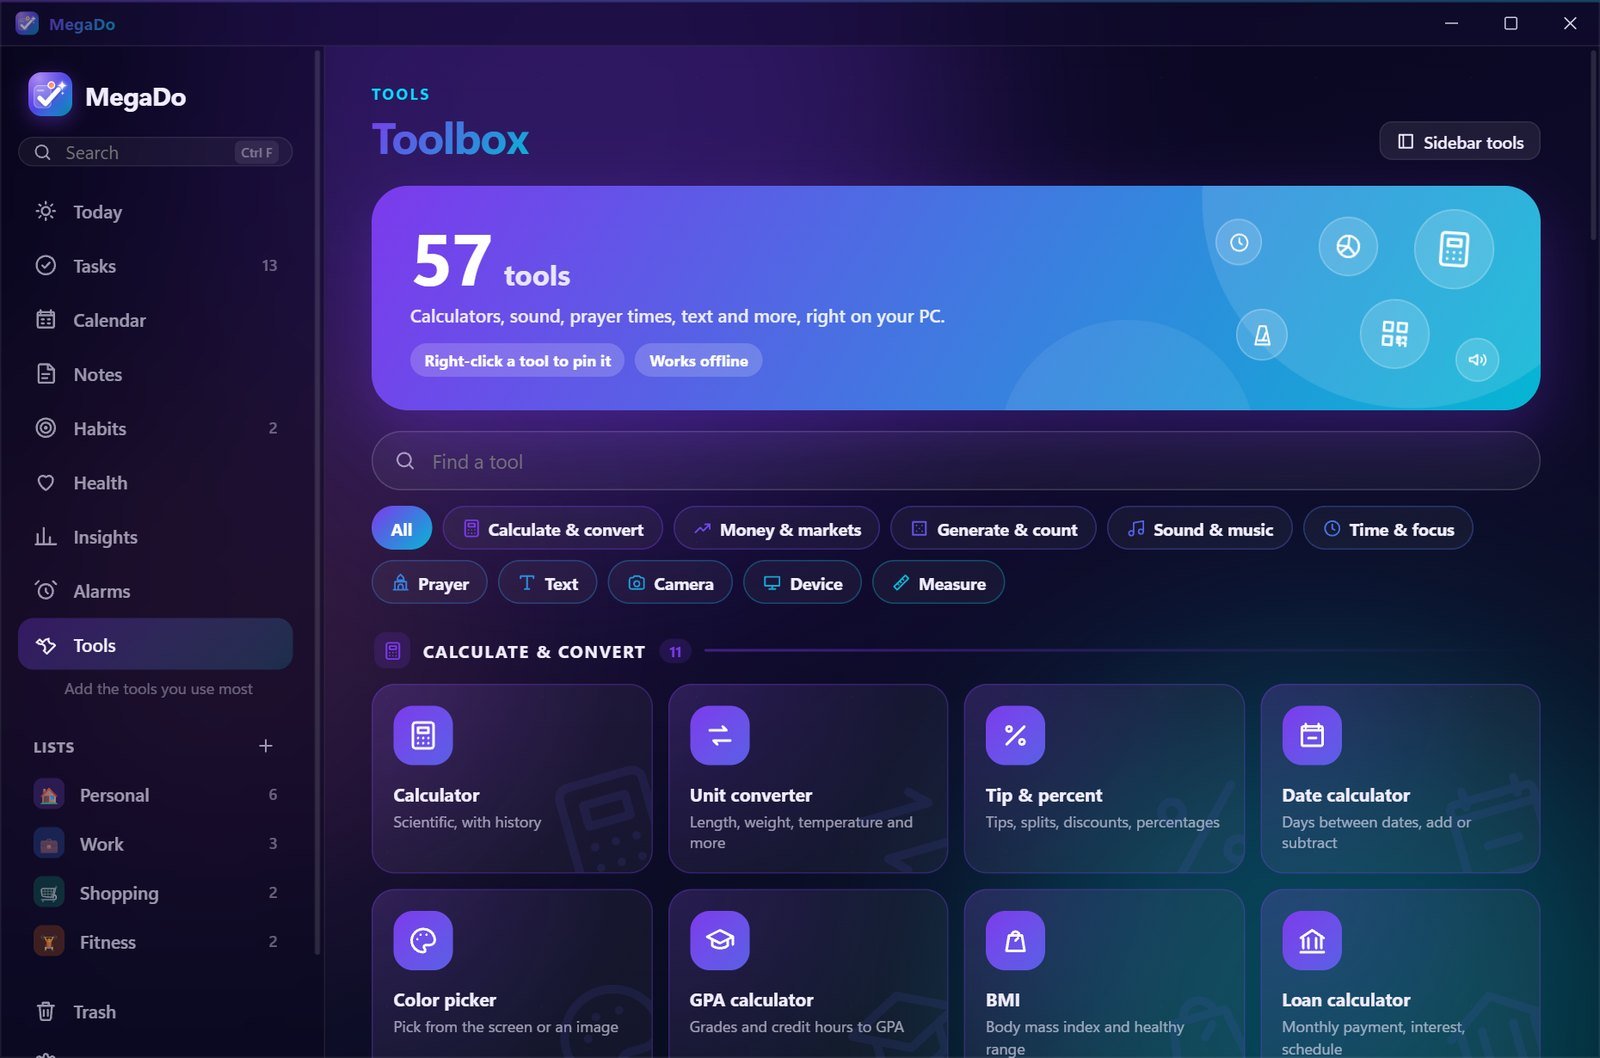
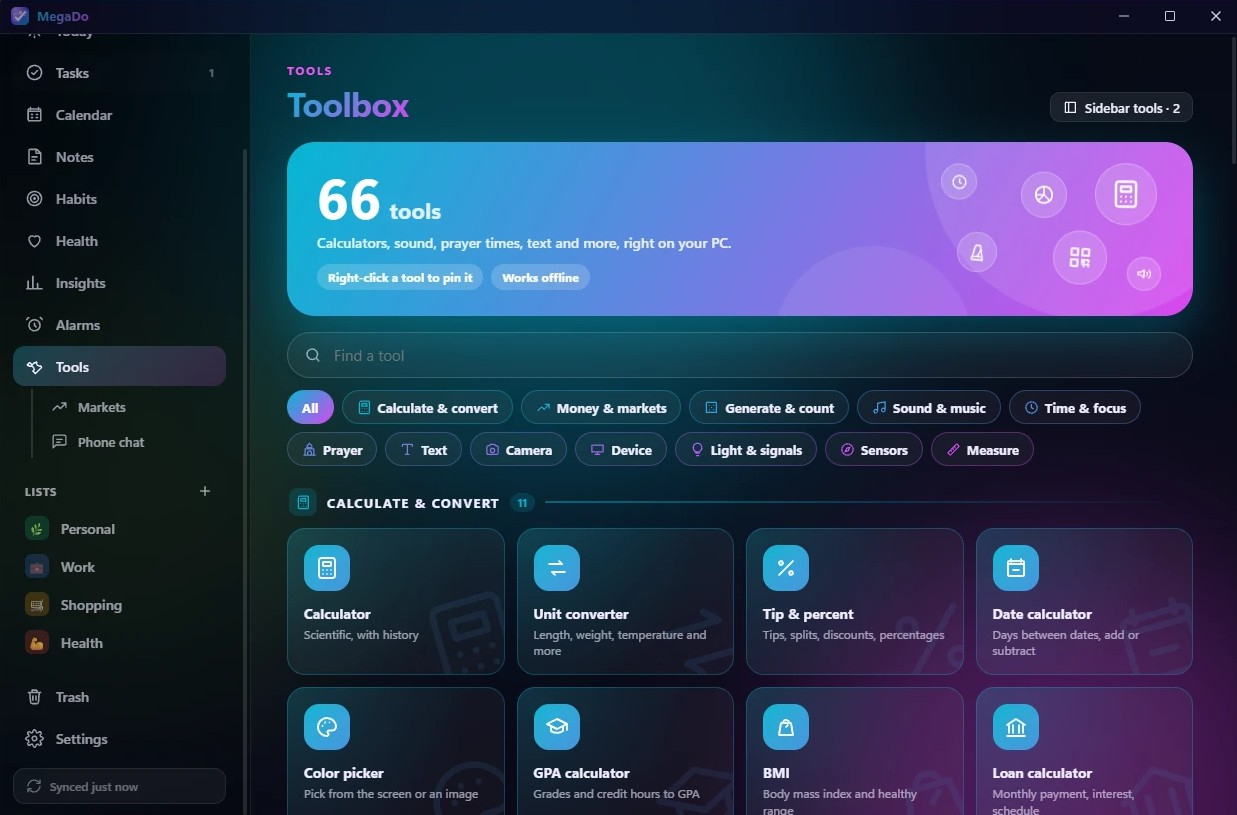
Windows Toolbox screenshot: 66 tools

diff --git a/index.html b/index.html
@@ -585,7 +585,7 @@
     <figure class="desk-shot"><img src="screenshots/windows-health.jpg" alt="MegaDo for Windows: Health page with water, food, sleep and heart rate" width="1600" height="1058" loading="lazy"><figcaption>Health</figcaption></figure>
     <figure class="desk-shot"><img src="screenshots/windows-notes.jpg" alt="MegaDo for Windows: notes with photos, checklists and colors" width="1600" height="1058" loading="lazy"><figcaption>Notes</figcaption></figure>
     <figure class="desk-shot"><img src="screenshots/windows-translate.jpg" alt="MegaDo for Windows: Translate tool, English to Arabic with no internet" width="1600" height="1058" loading="lazy"><figcaption>Offline translation</figcaption></figure>
-    <figure class="desk-shot"><img src="screenshots/windows-tools.jpg" alt="MegaDo for Windows: Toolbox" width="1600" height="1058" loading="lazy"><figcaption>66 tools</figcaption></figure>
+    <figure class="desk-shot"><img src="screenshots/windows-tools.jpg" alt="MegaDo for Windows: Toolbox" width="1237" height="815" loading="lazy"><figcaption>66 tools</figcaption></figure>
   </div>
   <div class="steps">
     <div class="step reveal"><h3>Install your way</h3><p>Just for you, or for everyone on the PC in Program Files. You can also pick your own folder.</p></div>

diff --git a/screenshots/README.md b/screenshots/README.md
@@ -36,6 +36,6 @@ All retaken for 2.19 (November 2026) with sample data only: no personal informat
 | `windows-health.jpg` | MegaDo for Windows: Health |
 | `windows-notes.jpg` | MegaDo for Windows: Notes |
 | `windows-translate.jpg` | MegaDo for Windows: Translate, English to Arabic offline |
-| `windows-tools.jpg` | MegaDo for Windows: Toolbox, 57 tools |
+| `windows-tools.jpg` | MegaDo for Windows: Toolbox, 66 tools |
 
 Retake them on the emulator when the UI changes noticeably; never use screenshots from a personal device.
